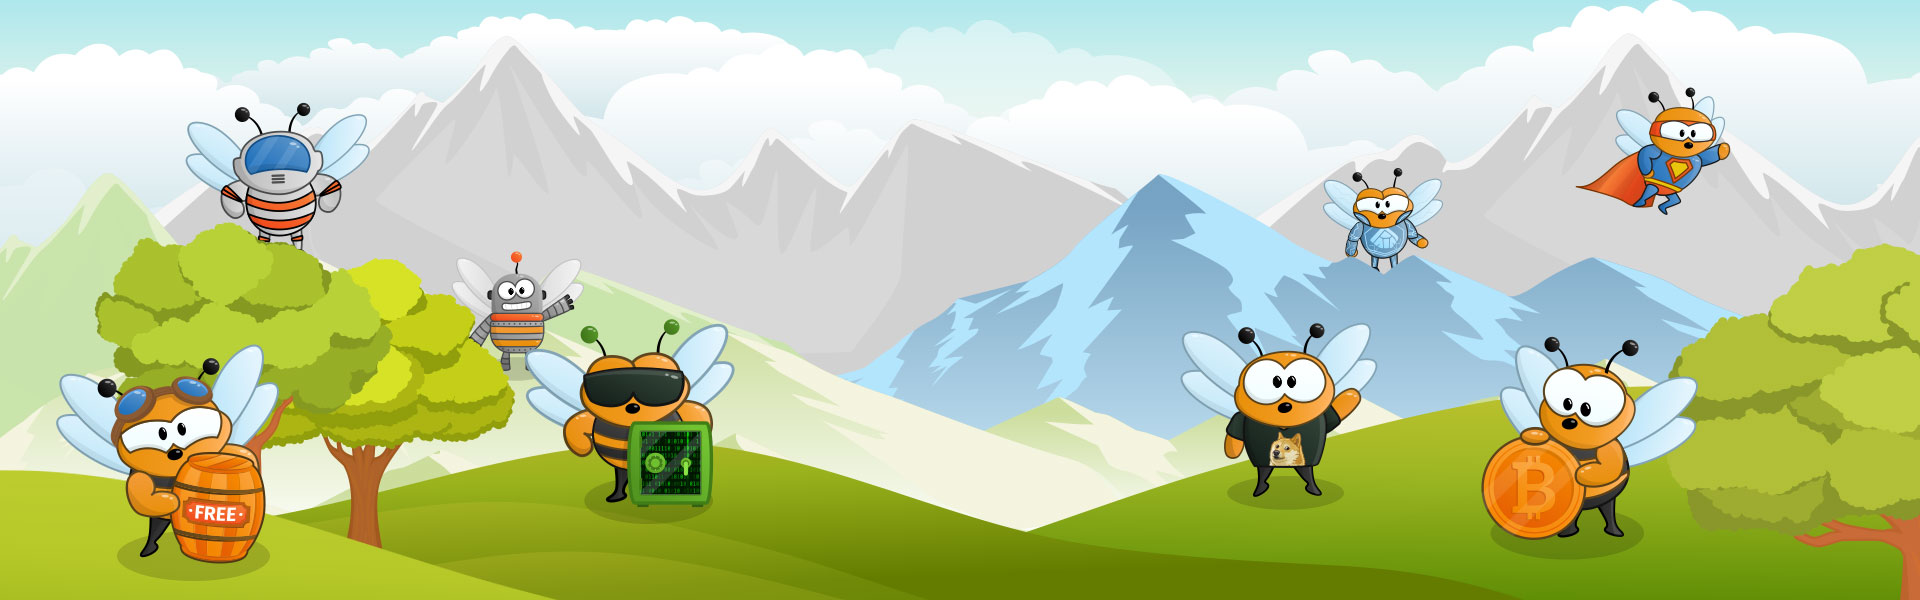
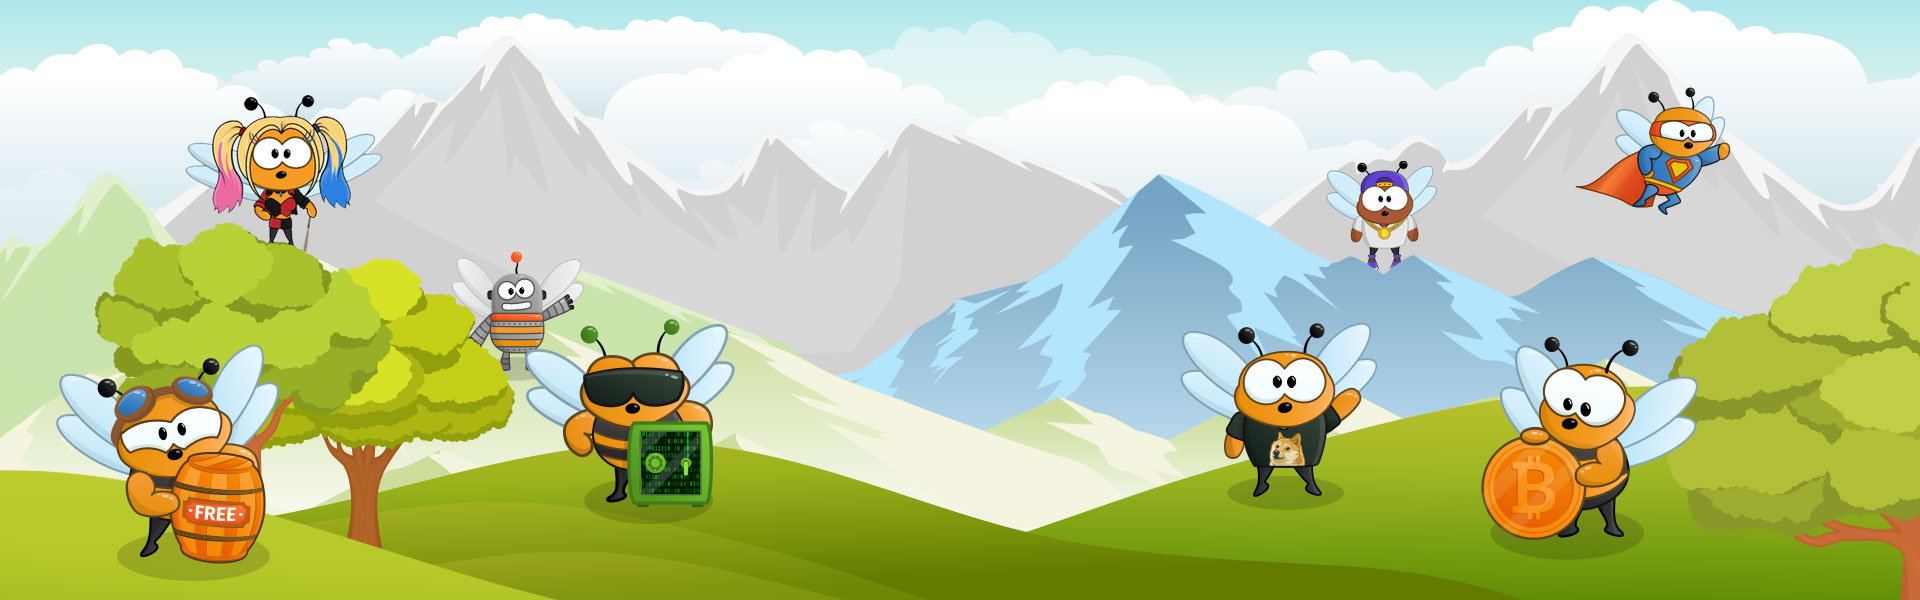
-Заменила на банерах для мобильной версии и десктоп пчел  на новые (девочка и негр), -Заменила текста в файле индекс,

Changed region(s): [[0.0938, 0.15, 0.2188, 0.42], [0.6875, 0.27, 0.75, 0.45]]

diff --git a/index.html b/index.html
@@ -225,15 +225,15 @@
             </div>
             <div class="col text-col-right">
                 <div class="text-about-game">
-                    <p><span class="title-text">BeeHive</span>представляет из себя экономическую игру благодаря которой Вы можете заработать монеты ETH.</p>
+                    <p><span class="title-text">BeeHive</span>представляет из себя экономическую игру благодаря которой Вы можете приумножить монеты ETH.</p>
                     <p>Игра позволяет почувствовать себя в роли пасечника, развивая свой улей, приобретая разные породы пчел и проводя улучшения производственного процесса, получая за эту реальную прибыль.</p>
                 </div>
             </div>
             <div class="w-100"></div>
              <div class="col text-col-left">
                  <div class="text-about-game">
-                    <p><span class="title-text">Рыбным текстом</span>называется текст, служащий для временного наполнения макета в публикациях или производстве веб-сайтов, пока финальный текст еще не создан.</p>
-                    <p>Рыбный текст также известен как текст-заполнитель или же текст-наполнитель. </p>
+                    <p><span class="title-text">Рыбным текстом</span>В игре присутствует два ресурса воск и мед. Воск можно купить или получить от пчел. Используется для покупки пчел, открытия новых рамок и развития улья.</p>
+                     <p>Мед же производят только Ваши пчелы, а также его можно получить от других ульев в вашей пасеке. Мед очень ценен, он может заменить воск в случае его нехватки, а также используется для улучшения качества производства и свободно конвертируется в ETH.</p>
                 </div>
              </div>
             <div class="col wrapper-content-list-result">
@@ -241,10 +241,10 @@
                    <li class="item-result">
                        <span class="first-rsult medal-before">1 ETH</span>
                        <span class="span-text">=</span>
-                       <span class="first-last wax-before">50</span>
+                       <span class="first-last wax-before">500 000</span>
                    </li>
                     <li class="item-result">
-                       <span class="first-rsult honey-before">50</span>
+                       <span class="first-rsult honey-before">500 000</span>
                        <span class="span-text">=</span>
                        <span class="first-last medal-before">1 ETH</span>
                    </li>
@@ -648,9 +648,9 @@
         <a href="#" class="jcarousel-control-prev"></a>
         <a href="#" class="jcarousel-control-next"></a>
     </div>
-    <p class="regomendation-about-medal"> Вы можете зарабатывать очки достижений от личных покупок воска, а также от покупок пасечников,
-    присоединившихся к игре по Вашей рекомендации. Кроме того, получив <span class="dark-text">Platinum Medal</span>, для вас открывается
-    бонусная доска с <span class="dark-text">TronBee!</span></p>
+    <p class="regomendation-about-medal">Вы можете зарабатывать очки достижений от личных покупок воска, а также от покупок пасечников, присоединившихся к игре по Вашей рекомендации. Причем лично купленный воск = 1 ОД, купленный 1 воск вашим приглашенным первой линии равняется 0,5 ОД и со второй линии за 1 воск 0,25 ОД.
+        Кроме того, получив <span class="dark-text">Platinum Medal</span>, для вас открывается
+    бонусная доска с <span class="dark-text">EtherBee!</span></p>
   </div>
 </section>
 
@@ -761,7 +761,7 @@
         <div class="container-item-block">
           <h3 class="title-item-block">Зарабатывайте больше!</h3>
           <div class="wrapper-tetx-item-block">
-            <p class="item-text">Если Вы очень дружелюбный пасечник, развиваете свой улей, а также всегда смотрите за развитием своей пасеки, то получайте <span class="title-text">бонус 5%</span> от каждого нового улья в Вашей пасеке. Тем более бонусы Вы получаете чистым медом.</p>
+            <p class="item-text">Если Вы очень дружелюбный пасечник, развиваете свой улей, а также всегда смотрите за развитием своей пасеки, то получайте <span class="title-text">бонус 10%</span> от каждого нового улья в Вашей пасеке. Тем более бонусы Вы получаете чистым медом.</p>
           </div>
           <button type="button" class="button-btn go-to-game slider-btn">Играть</button>
         </div>

diff --git a/styles/media.css b/styles/media.css
@@ -2423,8 +2423,9 @@
         content: '';
         position: absolute;
         left: 0;
-        width: 45px;
-        height: 45px;
+        width: 40px;
+        height: 40px;
+        top: -6px;
         background: url('../image/big-medal-icon.png')no-repeat;
         background-size: contain;
     }
@@ -2432,8 +2433,9 @@
         content: '';
         position: absolute;
         left: 0;
-        width: 45px;
-        height: 45px;
+        width: 40px;
+        height: 40px;
+        top: -6px;
         background: url('../image/honey-big.png')no-repeat;
         background-size: contain;
     }
@@ -2441,16 +2443,17 @@
         content: '';
         position: absolute;
         left: 0;
-        width: 45px;
-        height: 45px;
+        top: -6px;
+        width: 40px;
+        height: 40px;
         background: url('../image/wax-big.png')no-repeat;
         background-size: contain;
     }
     .item-result span {
-        font-size: 50px;
+        font-size: 45px;
     }
     .first-rsult, .first-last {
-        padding-left: 60px;
+        padding-left: 53px;
         position: relative;
     }
     .span-text {
@@ -4530,7 +4533,7 @@
         max-width: 193px;
     }
     .item-result span {
-        font-size: 35px;
+        font-size: 25px;
     }
     .go-to-game {
         margin-right: 15px;

diff --git a/styles/style.css b/styles/style.css
@@ -3661,7 +3661,7 @@ article, aside, details, figcaption, figure, footer, header, main, menu, nav, se
     align-items: center;
 }
 .item-result span{
-    font-size: 60px;
+    font-size: 48px;
     color: #326909;
     font-weight: bold;
 }
